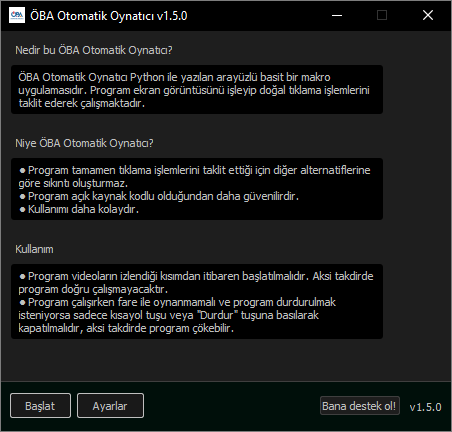
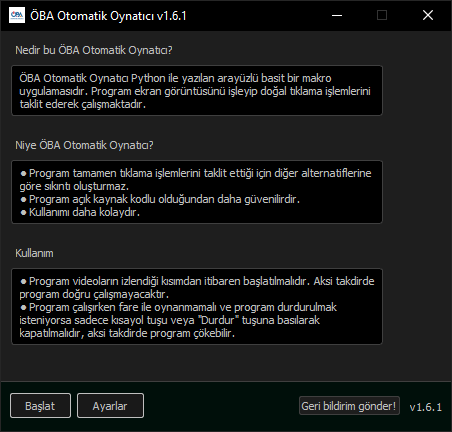
v1.6.1 Update
- Improvements applied to enhance interface visibility.

diff --git a/src/main.py b/src/main.py
@@ -1,10 +1,14 @@
 from sys import exit, argv
 from multiprocessing import freeze_support
 from PyQt5.QtWidgets import QApplication
+from PyQt5.QtCore import Qt
 import gui.main
 
 if __name__ == "__main__":
     freeze_support()
+
+    QApplication.setAttribute(Qt.AA_EnableHighDpiScaling, True)
+    QApplication.setAttribute(Qt.AA_UseHighDpiPixmaps, True)
 
     gui_app = QApplication(argv)
     main_window = gui.main.MainWindow()

diff --git a/src/utils/constants.py b/src/utils/constants.py
@@ -1,6 +1,6 @@
 from os import environ
 
-VERSION = "1.6.0"
+VERSION = "1.6.1"
 
 class File:
     PROGRAM_PATH = f"{environ['APPDATA']}\\OBA Otomatik Oynatici"

diff --git a/CONTRIBUTING.md b/CONTRIBUTING.md
@@ -1,19 +1,19 @@
 <h2> ÖBA Otomatik Oynatıcı </h2>
-<h3> Katkıda Bulunma Rehberi </h3>
+<h3> Katkıda Bulunma Rehberi </h3>  
 
-Uygulamaya katkı vermeye karar verdiğiniz için çok teşekkürler! Katkılarınız uygulamanın daha işlevsel kalmasına ve sürdürülebilir olmasına müthiş bir katkısı olacak.
+Uygulamaya katkı vermeye karar verdiğiniz için <i>çok teşekkürler!</i> Katkılarınız uygulamanın daha işlevsel kalmasına ve sürdürülebilir olmasına <i>müthiş bir katkısı olacak.</i>
 
 ---------------------------------
 
-<h3> Nasıl katkıda bulunulur? </h3>
+<h3> Nasıl katkıda bulunulur? </h3> 
 
-Öncelikle, uygulamada bulduğunuz her türlü hata için hemen kodda değişiklik yapıp PR oluşturmanıza gerek yok. Proje sahibi ve bakımcılarına, katkı verenlerine geri bildirim için yaşadığınız sorunu öncelikle Issues bölümünden belirtebilirsiniz.
+<b>Öncelikle</b>, uygulamada bulduğunuz her türlü hata için hemen kodda değişiklik yapıp <i>PR</i> oluşturmanıza <i>gerek yok</i>. Proje sahibi ve bakımcılarına, katkı verenlerine <b>geri bildirim için</b> yaşadığınız sorunu <i>öncelikle</i> <i>Issues</i> bölümünden belirtebilir ya da <a href="https://forms.gle/6o3kqXHRJ2iXEqs36">bu formu</a> doldurabilirsiniz.
 
-Uygulama deposuna katkıda bulunabilmeniz için ilk önce depoyu çatallayıp değişikliklerinizi mevcut çatalınızda yapmalısınız. Değişiklikleri yaptıktan sonra asıl dal için PR oluşturmalısınız.
+Uygulama deposuna katkıda bulunabilmeniz için ilk önce <i>depoyu çatallayıp</i> değişikliklerinizi <b><i>mevcut çatalınızda</i></b> yapmalısınız. Değişiklikleri yaptıktan sonra asıl dal için <i>PR</i> oluşturmalısınız. 
 
-Uygulama için özel sanal ortam oluşturma işini kolaylaştırmak için <code><a href="src">src</a></code> dizininde bulunan Powershell betiklerini inceleyebilir ve kullanabilirsiniz. Aynı biçimde, uygulamanın kullandığı kütüphanelere ve sürümlerine <code><a href="src/requirements.txt">src/requirements.txt</a></code> dosyadan ulaşabilirsiniz. Daha detaylı bir açıklamaya <a href="src/README.md">buradan</a> ulaşabilirsiniz.
+Uygulama için özel sanal ortam oluşturma işini kolaylaştırmak için <code><a  href="src">src</a></code> dizininde bulunan Powershell betiklerini inceleyebilir ve kullanabilirsiniz. Aynı biçimde, uygulamanın kullandığı kütüphanelere ve sürümlerine <code><a  href="src/requirements.txt">src/requirements.txt</a></code> dosyadan ulaşabilirsiniz. Daha detaylı bir açıklamaya <a  href="src/README.md">buradan</a> ulaşabilirsiniz. 
 
-Düzenlemenizini bitirdikten sonra, kendi çatalınızda yaptığınız değişiklikleri PR'da liste halinde özetlemeli ve ne değişiklikler yaptığınızı kısaca açıklamalısınız. PR proje sahibi tarafından incelendikten sonra sorun olmadığı takdirde ana dala birleştirilecektir.
+Düzenlemenizi bitirdikten sonra, kendi çatalınızda yaptığınız değişiklikleri PR'da <i>liste halinde özetlemeli</i> ve ne değişiklikler yaptığınızı <i>kısaca açıklamalısınız</i>. PR proje sahibi tarafından incelendikten sonra <i>sorun olmadığı takdirde</i> ana dalla birleştirilecektir.  
 
 <br>
-<i>⚠<b>Uyarı</b>: Çatalınızda değişiklikler yaparken asla <code><a href="src/VERSION">src/VERSION</a></code> ve <code><a href="src/executable/x86.zip">src/executable/x86.zip</a></code> dosyalarını değiştirmemelisiniz. Bu dosyalarda değişiklik yapıldığı takdirde PR'ınız reddedilecektir. Kodun yürütülebilir bir dağıtım paketine dönüştürülmesi süreci tamamen kod sahibine ve bakımcılarına aittir, PR'nız kabul edilip ana dalla birleştirildiği takdirde yalnızca proje sahibi uygulamanın dağıtılabilir sürümünü hazırlayabilir.</i>
+<i>⚠<b>Uyarı</b>: Çatalınızda değişiklikler yaparken <b>asla</b> <code><a  href="src/VERSION">src/VERSION</a></code> ve <code><a  href="src/executable/x86.zip">src/executable/x86.zip</a></code> dosyalarını değiştirmemelisiniz. Bu dosyalarda <u>değişiklik yapıldığı takdirde</u> PR'ınız <b>reddedilecektir</b>. Kodun yürütülebilir bir dağıtım paketine dönüştürülmesi süreci tamamen kod sahibine ve bakımcılarına aittir, PR'nız kabul edilip ana dalla birleştirildiği takdirde <u>yalnızca proje sahibi</u> uygulamanın dağıtılabilir sürümünü hazırlayabilir.</i>

diff --git a/README.md b/README.md
@@ -1,10 +1,11 @@
 <h2> ÖBA Otomatik Oynatıcı </h2>
-<b> Sürüm 1.6.0 </b>
+<b> Sürüm 1.6.1 </b>
 <br><br>
 <i>Uğraşmak yerine, dosyayı direkt <a href="https://github.com/MehmetKLl/OBA-Otomatik-Oynatici/releases/latest/download/oba_otomatik_oynatma.zip" >buradan</a> indirebilirsiniz.</i>
 <br><br>
 
-<i>Program hakkında destek almak için <a href="https://www.technopat.net/sosyal/konu/uzman-oegretmenlik-icerikleri-icin-oynatici-oba-otomatik-oynatici.2164134/">bu konuya</a> ya da <a href="https://forum.donanimarsivi.com/konu/oeba-otomatik-oynatici.584854/">bu konuya</a> mesaj gönderebilirsiniz.</i>
+<i>Program hakkında destek almak için <a href="https://forum.donanimarsivi.com/konu/oeba-otomatik-oynatici.584854/">bu konuya</a> mesaj gönderebilir ya da programa geri bildirim göndermek için <a href="https://forms.gle/6o3kqXHRJ2iXEqs36">bu formu</a> doldurabilirsiniz.
+Programa katkıda bulunma rehberine <a href="https://forms.gle/6o3kqXHRJ2iXEqs36">buradan</a> ulaşabilirsiniz.</i>
 <br><br><br>
 
 <picture>
@@ -38,8 +39,8 @@
 - Program ilk çalıştırıldığı vakit kurulması gereken dosyaları internetten indirdiğinden program ilk çalıştırıldığı vakit internet gerektirmektedir.
 - Arayüz ekrana gelmeden önce sürüm denetleyicisi çalıştırıldığından arayüzün ekrana gelmesi bazı etkenlere bağlı olarak değişebilir.
 - Program kurulduktan sonra aynı dosyayla kuruluma gerek olmadan tekrar çalıştırılabilir.
-- <b><ins>Program videoların izlendiği kısımdan itibaren başlatılmalıdır (Site boyutu %100 olmak şartıyla)</ins></b>. Aksi takdirde program doğru <b>çalışmayacaktır</b>.
-- <b><ins>Program çalışırken fare ile oynanmamalı</ins></b> ve program durdurulmak isteniyorsa <b><ins>sadece kısayol tuşuyla kapatılmalıdır</ins></b>, aksi takdirde program çökebilir. 
+- <b><u>Program videoların izlendiği kısımdan itibaren başlatılmalıdır (Site boyutu %100 olmak şartıyla)</u></b>. Aksi takdirde program doğru <b>çalışmayacaktır</b>.
+- <b><u>Program çalışırken fare ile oynanmamalı</u></b> ve program durdurulmak isteniyorsa <b><u>sadece kısayol tuşuyla kapatılmalıdır</u></b>, aksi takdirde program çökebilir. 
 
 ---------------------------------
 
@@ -116,6 +117,7 @@
 
 |Sürüm|Notlar|
 |-|-|
+|1.6.1|Arayüz görünümünü iyileştirecek geliştirmeler yapıldı.|
 |1.6.0|Arayüzde önemli geliştirmeler yapıldı. Feedback sistemi eklendi ve proje topluluğa açıldı. Güncelleme sistemi yenilendi. Eski sürümlerin güncelleme ile uyumlu çalışabilmesi için geriye dönük uyumluluk yöneticisi eklendi. Yükleyici programın mekanizması geliştirildi.|
 |1.5.0|Uygulama algoritması yeni ÖBA arayüzü ile çalışacak biçimde düzenlendi. Arayüzde geliştirilme yapıldı. Otomatik tamir sisteminin hatalı çalışmasına sebep olan hata giderildi.|
 |1.4.10|Program hataları giderildi.|

diff --git a/src/README.md b/src/README.md
@@ -1,5 +1,5 @@
 <h2> ÖBA Otomatik Oynatıcı </h2>
-<b> Sürüm 1.6.0 </b>
+<b> Sürüm 1.6.1 </b>
 <br><br>
 
 <h4><a href="/src/"><code>src/</code></a> dizini</h4>
